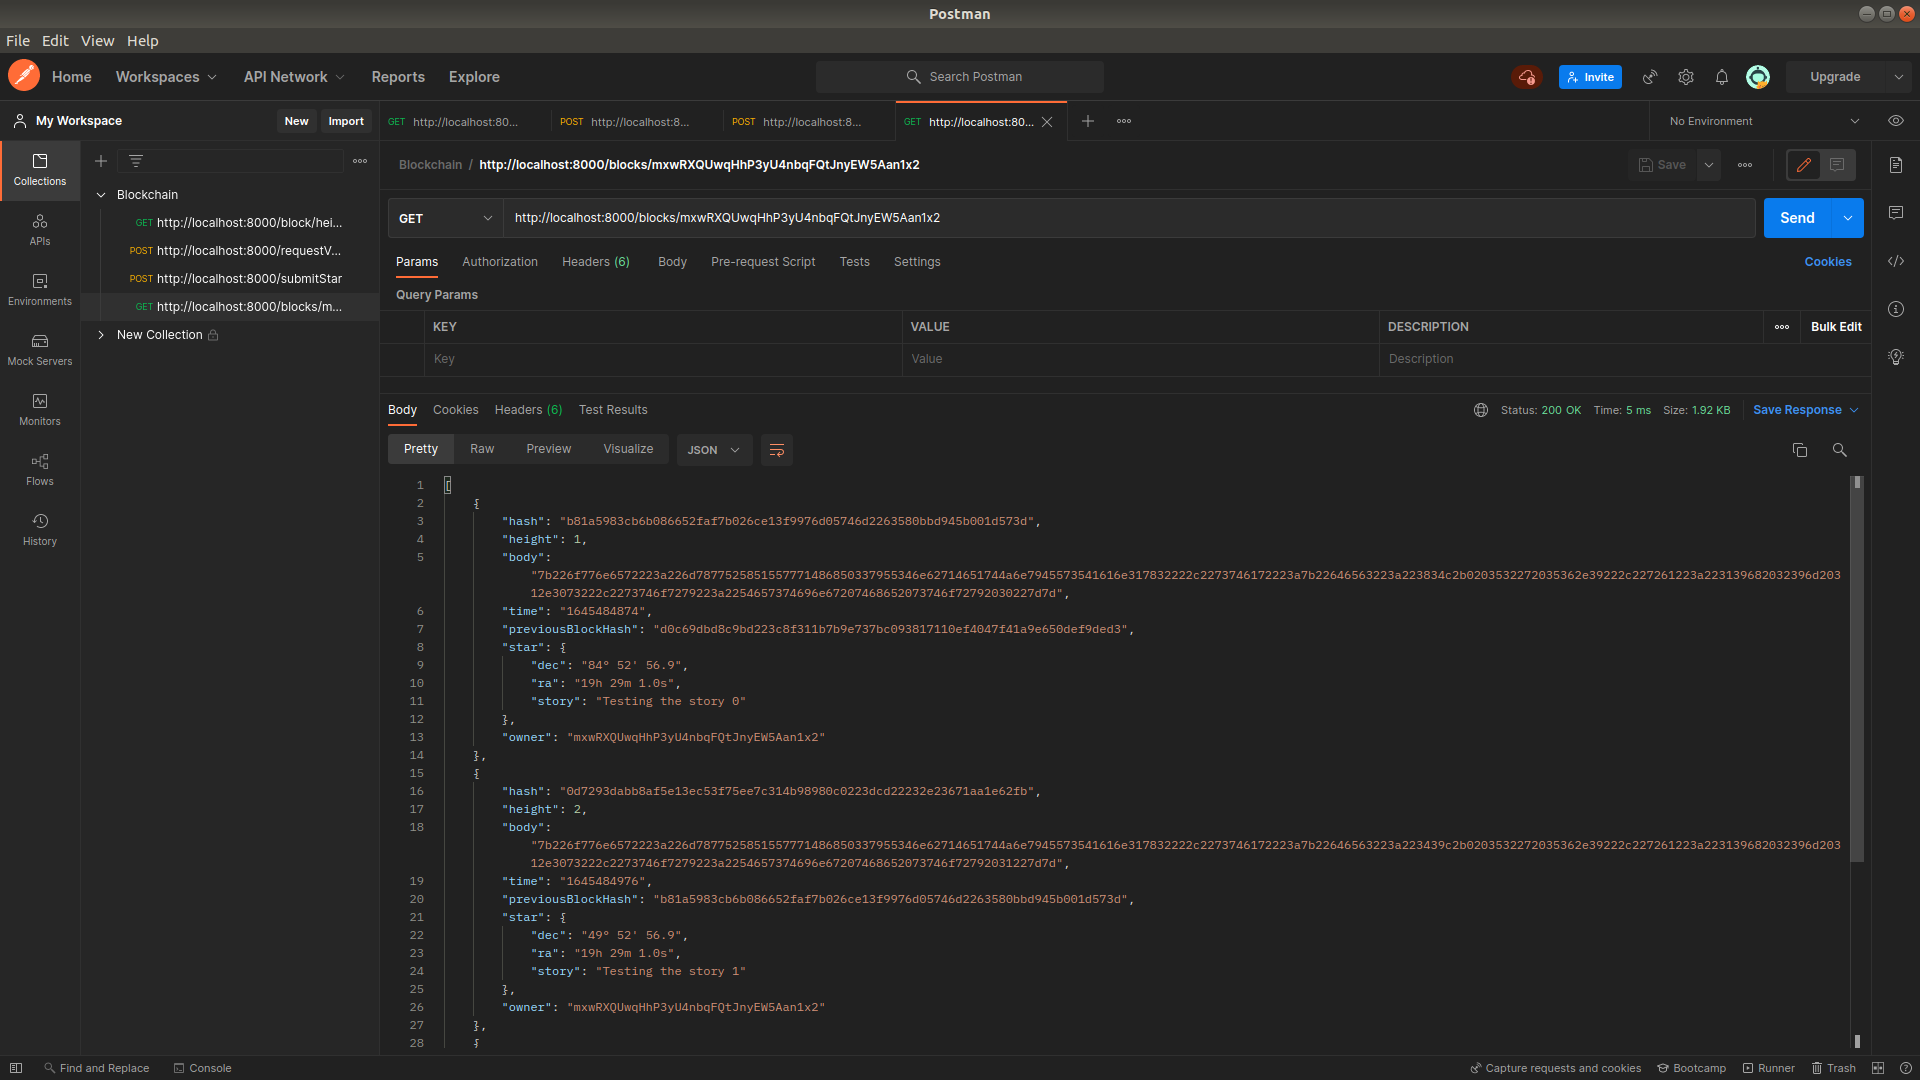
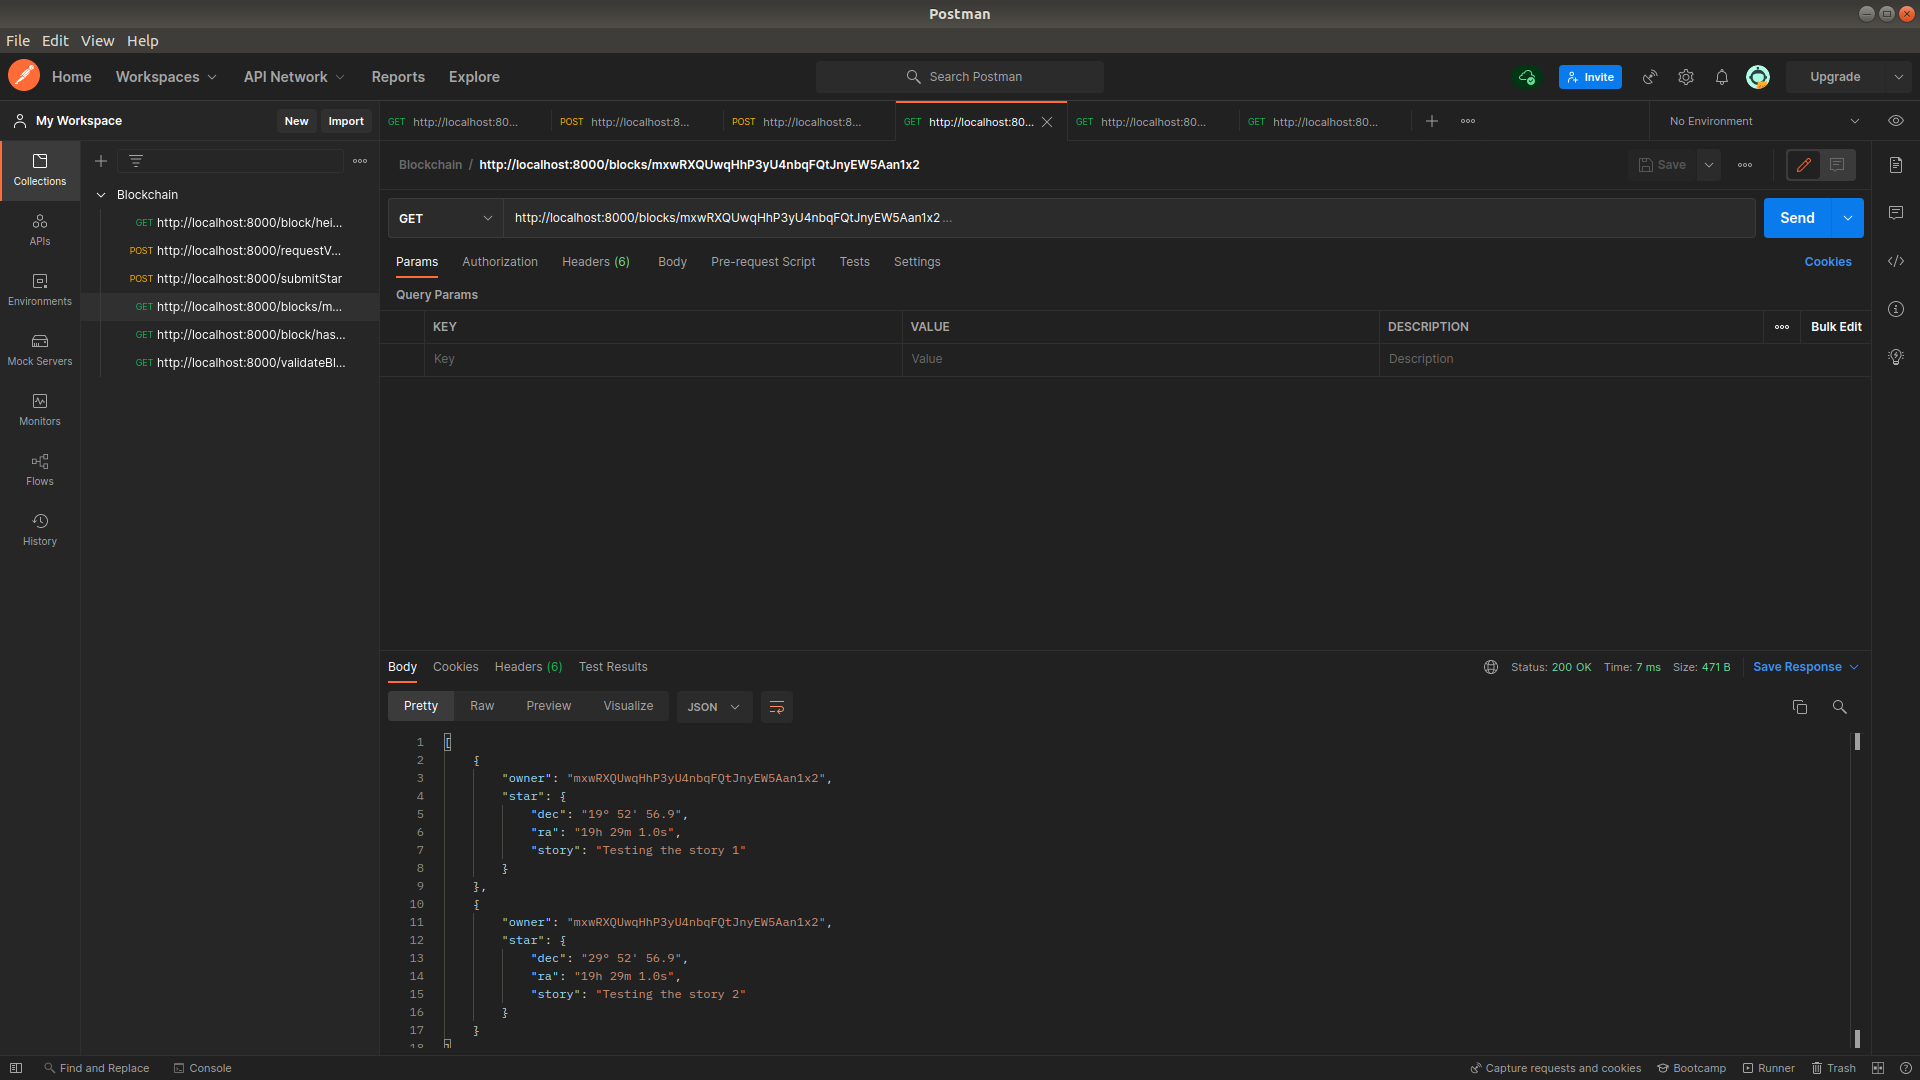
added validateBlockchain endpoint and updated Postman screenshots

diff --git a/BlockchainController.js b/BlockchainController.js
@@ -10,12 +10,13 @@ class BlockchainController {
     constructor(app, blockchainObj) {
         this.app = app;
         this.blockchain = blockchainObj;
-        // All the endpoints methods needs to be called in the constructor to initialize the route.
+        // All the endpoints methods need to be called in the constructor to initialize the route.
         this.getBlockByHeight();
         this.requestOwnership();
         this.submitStar();
         this.getBlockByHash();
         this.getStarsByOwner();
+        this.validateBlockchain();
     }
 
     // Endpoint to Get a Block by Height (GET Endpoint)
@@ -117,6 +118,19 @@ class BlockchainController {
         });
     }
 
+    // Endpoint that validates chain
+    validateBlockchain() {
+        this.app.get("/validateBlockchain", async (req, res) => {
+            // const address = req.body.address;
+            let errorLog = await this.blockchain.validateChain();
+            if(errorLog.length != 0){
+                return res.status(500).json(errorLog);
+            } else {
+                return res.status(200).send("Blockchain validated!");
+            }
+        });
+    }
+    
 }
 
 module.exports = (app, blockchainObj) => { return new BlockchainController(app, blockchainObj);}

diff --git a/src/blockchain.js b/src/blockchain.js
@@ -160,7 +160,12 @@ class Blockchain {
         let self = this;
         return new Promise((resolve, reject) => {
            let block = self.chain.filter(p => p.hash === hash)[0]
-           resolve(block);
+           if(block){
+               resolve(block);
+           }
+           else{
+               reject(Error(`block with hash = ${hash} not found`))
+           }
         });
     }
 
